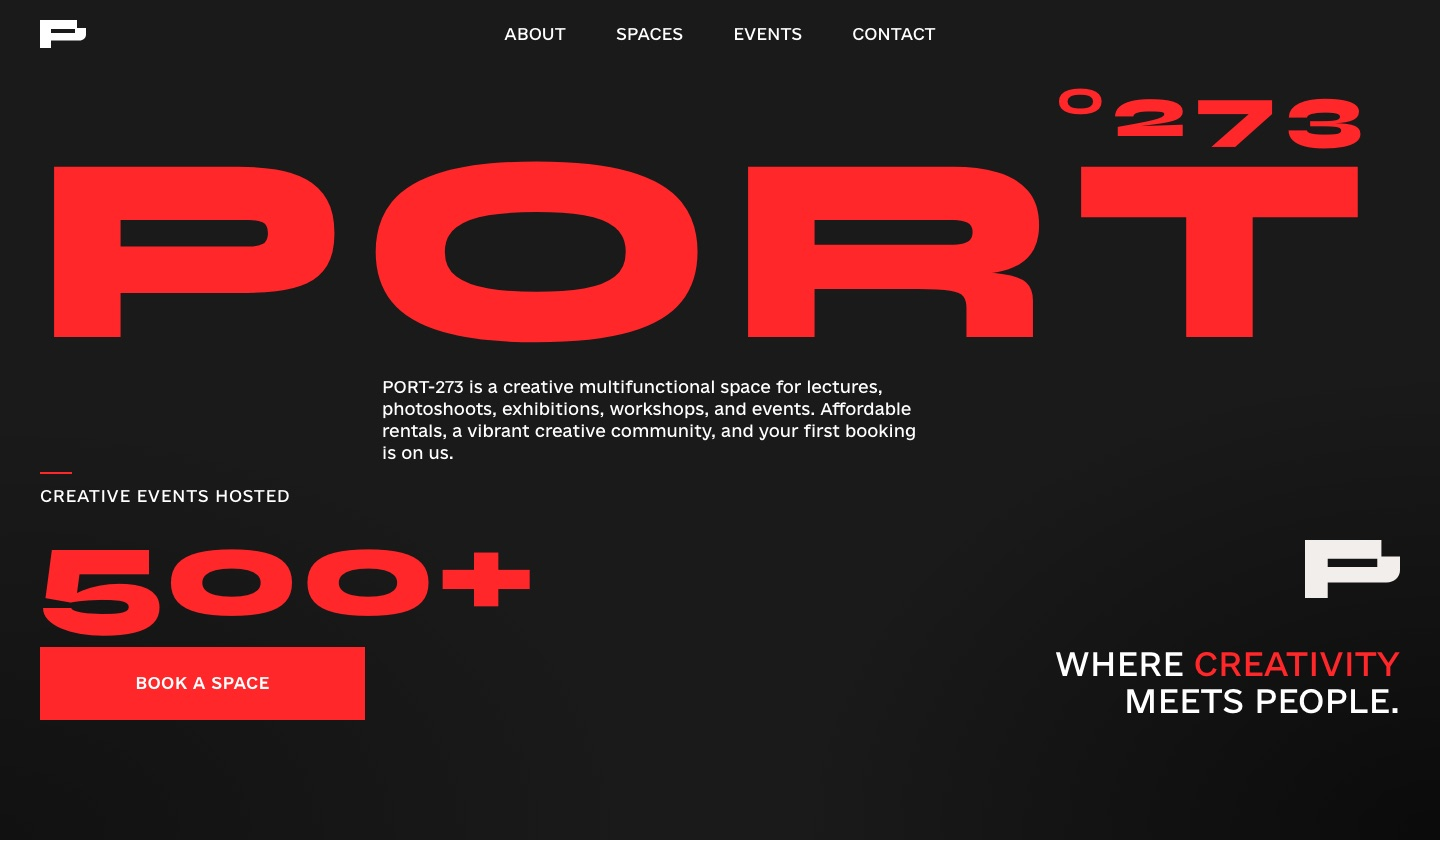
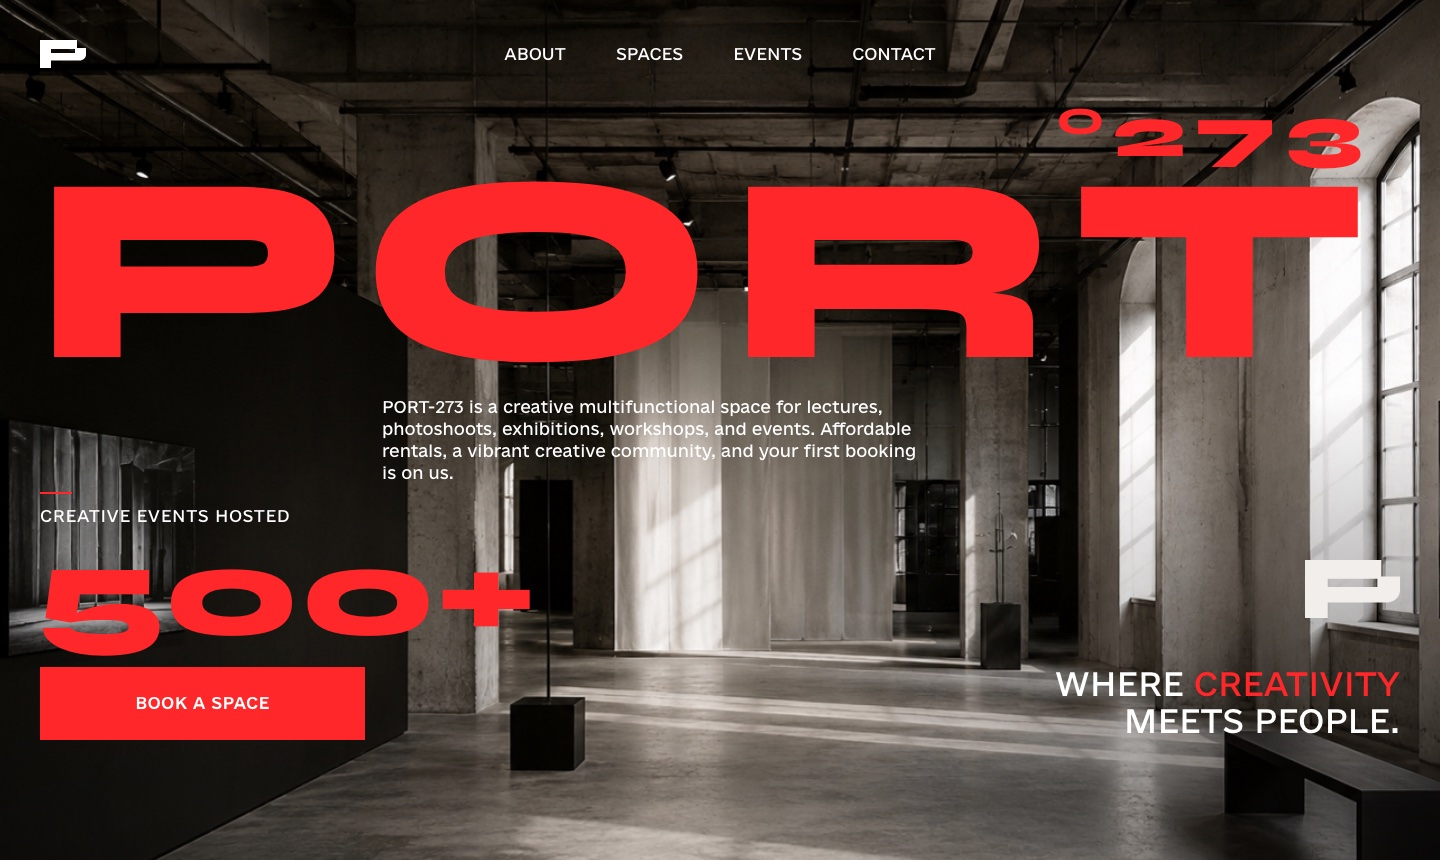
New Hoomie cover and PORT°273 cover with the hall photo

diff --git a/index.html b/index.html
@@ -40,7 +40,7 @@
 
       <div class="grid">
         <a class="card reveal" href="https://github.com/iravorobchuk3004/4-paws" target="_blank" rel="noopener">
-          <div class="shot"><img src="img/hoomie.jpg" alt="Hoomie app screens on a purple background" loading="lazy"></div>
+          <div class="shot"><img src="img/hoomie.jpg?v=2" alt="Five Hoomie app screens: onboarding, matches, home, saved animals and profile" loading="lazy"></div>
           <div class="meta mono"><span>Mobile app</span><span>iOS · Android</span></div>
           <h3>Hoomie <span class="arr">↗</span></h3>
           <p>Pet adoption from shelters, matched to your lifestyle. Designed in Figma, built in React Native with Expo.</p>
@@ -54,7 +54,7 @@
         </a>
 
         <a class="card reveal" href="https://iravorobchuk3004.github.io/port273/" target="_blank" rel="noopener">
-          <div class="shot dark"><img src="img/port273.jpg" alt="PORT°273 landing with large red wordmark" loading="lazy"></div>
+          <div class="shot dark"><img src="img/port273.jpg?v=2" alt="PORT°273 landing: red wordmark over an industrial hall" loading="lazy"></div>
           <div class="meta mono"><span>Landing + booking</span><span>Web · Venue</span></div>
           <h3>PORT°273 <span class="arr">↗</span></h3>
           <p>An industrial culture venue in Kyiv: spaces, events and a four-step flow to book a space.</p>
